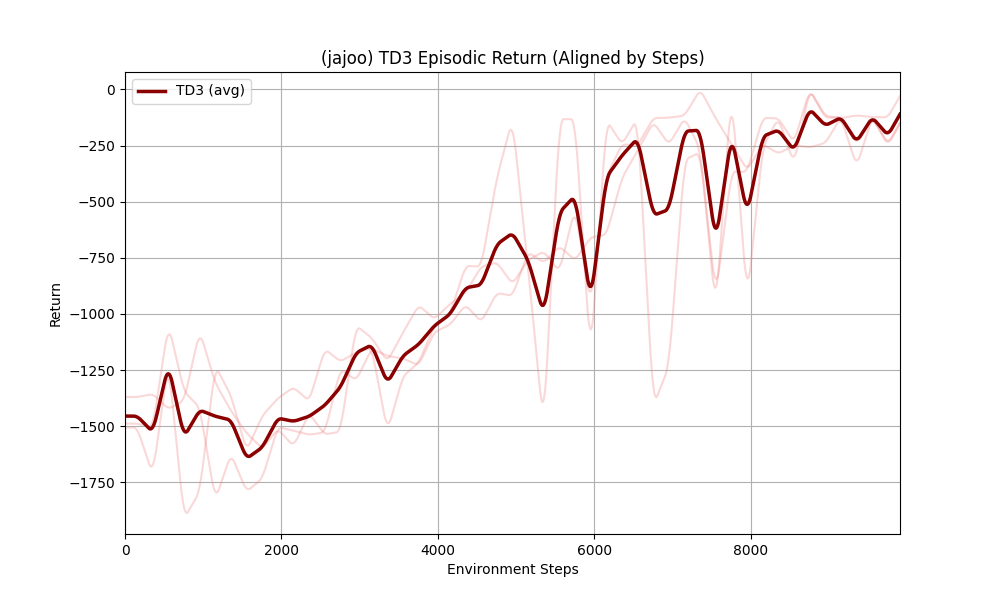
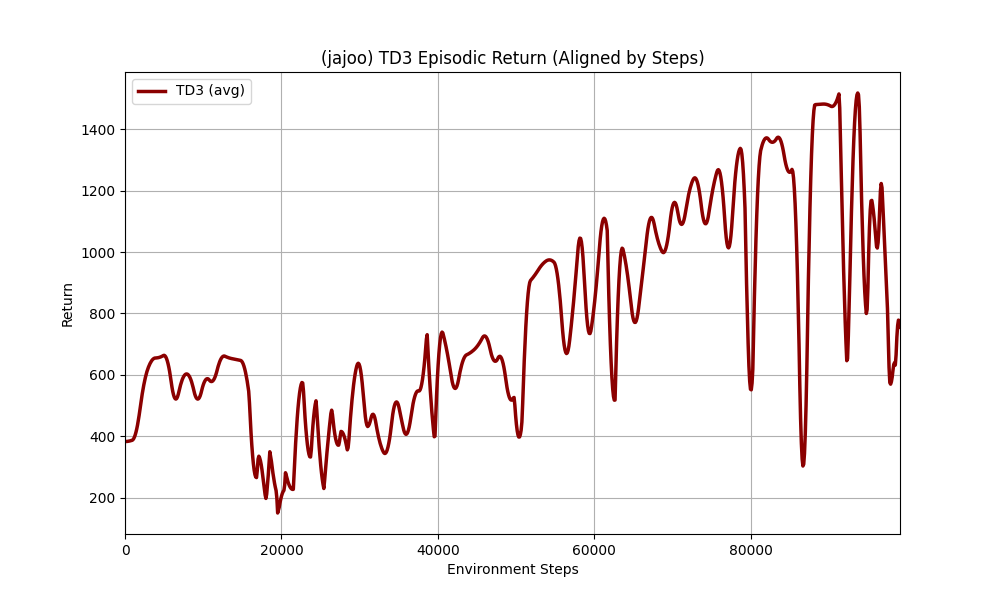
a4 update

diff --git a/a4_jajoo/train_td3_ant.py b/a4_jajoo/train_td3_ant.py
@@ -12,39 +12,87 @@ import argparse
 
 CCID="jajoo"
 
-# Adapted from ChatGPT
-def plot_alg_results(step_returns_list, file, label="Algorithm", ylabel="Return", title="Stepwise Returns"):
+def interpolate_returns(all_returns, all_steps, num_points=1000):
+    interp_returns = []
 
-    # Compute running average
-    running_avg = np.mean(np.array(step_returns_list), axis=0)
+    # Use actual max steps instead of a hardcoded 1M
+    x_max = max([np.sum(steps) for steps in all_steps])
+    x_target = np.linspace(0, x_max, num_points)
 
-    # Create the plot
+    for returns, steps in zip(all_returns, all_steps):
+        x_actual = np.cumsum(steps)
+        y_actual = np.array(returns)
+
+        if x_actual[-1] < x_target[-1]:
+            x_actual = np.append(x_actual, x_target[-1])
+            y_actual = np.append(y_actual, y_actual[-1])
+
+        y_interp = np.interp(x_target, x_actual, y_actual)
+        interp_returns.append(y_interp)
+
+    return x_target, interp_returns
+
+
+
+
+
+# Plot
+def plot_interpolated(interpolated_returns, x_steps, file, label="TD3", ylabel="Return", window=10):
+    array = np.array(interpolated_returns)
+    mean = np.mean(array, axis=0)
+
+    def running_mean(x, N):
+        return np.convolve(x, np.ones(N)/N, mode='valid')
+
+    smoothed_mean = running_mean(mean, window)
+
     plt.figure(figsize=(10, 6))
 
-    # Plot the original data
-    # plt.plot(episode_rewards, marker='o', linestyle='-', color='b', label='Original Data')
+    for run in array:
+        smoothed_run = running_mean(run, window)
+        trimmed_x = x_steps[:len(smoothed_run)]
+        plt.plot(trimmed_x, smoothed_run, color='lightcoral', alpha=0.3)
 
-    # Plot the running average
-    plt.plot(
-        range(0, len(running_avg)),
-        running_avg,
-        color='r',
-        label=label
-    )
+    plt.plot(x_steps[:len(smoothed_mean)], smoothed_mean, color='darkred', label=f"{label} (avg)", linewidth=2.5)
 
-    # Adding labels and title
-    plt.title(f"({CCID}){title}")
-    plt.xlabel("Time Step")
+    plt.title(f"({CCID}) TD3 Episodic Return (Aligned by Steps)")
+    plt.xlabel("Environment Steps")
     plt.ylabel(ylabel)
-
-    # Add legend
     plt.legend()
-
-    # Add grid
     plt.grid(True)
-
-    # Display the plot
+    plt.xlim([0, x_steps[len(smoothed_mean)-1]])  # ✅ Fixes axis issue
     plt.savefig(file)
+
+
+
+# Adapted from ChatGPT
+def plot_alg_results(episode_returns_list, file, label="Algorithm", ylabel="Return", title="Episodic Returns", window=10):
+    array = np.array(episode_returns_list)
+    mean = np.mean(array, axis=0)
+
+    # Compute running mean
+    def running_mean(x, N):
+        return np.convolve(x, np.ones(N)/N, mode='valid')
+
+    smoothed_mean = running_mean(mean, window)
+
+    plt.figure(figsize=(10, 6))
+
+    # Plot each run (optional)
+    for run in array:
+        smoothed_run = running_mean(run, window)
+        plt.plot(smoothed_run, color='lightcoral', alpha=0.3, linewidth=1)
+
+    # Plot smoothed average
+    plt.plot(smoothed_mean, color='darkred', label=f"{label} (avg)", linewidth=2.5)
+
+    plt.title(f"({CCID}){title}")
+    plt.xlabel("Episode")
+    plt.ylabel(ylabel)
+    plt.legend()
+    plt.grid(True)
+    plt.savefig(file)
+
 
 
 def plot_many_algs(lists, labels, colors, file, ylabel="Return", title="Stepwise Returns"):
@@ -86,6 +134,7 @@ def plot_many_algs(lists, labels, colors, file, ylabel="Return", title="Stepwise
 
 if __name__ == '__main__':
 
+    print('Running Ant-v4')
     parser = argparse.ArgumentParser()
     parser.add_argument("--debug", action="store_true", default=False)
     parser.add_argument("--track-q", action="store_true", default=False)
@@ -108,8 +157,8 @@ if __name__ == '__main__':
     batch_size = 256
     buffer_size = 1000000
     # num_training_episodes = 2000
-    # total_training_steps = 1_000_000
-    total_training_steps = 100000
+    # num_training_steps = 1_000_000
+    num_training_steps = 1000000
 
 
     agent_class_to_text = {TD3.TD3: 'TD3'} 
@@ -125,35 +174,48 @@ if __name__ == '__main__':
     # import ipdb; ipdb.set_trace()
 
 
-
     perf_dict = {}
     q_val_dict = {}
+    step_dict = {}  # for tracking steps per episode
     for n_step in n_steps:
         perf_dict[n_step] = {}
         q_val_dict[n_step] = {}
+        step_dict[n_step] = {}
         for agent_class in agent_classes:
             agent_text = agent_class_to_text[agent_class]
             alg_returns = []
             alg_q_values = []
+            alg_steps = []
             for seed in range(num_seeds):
                 
                 num_actions = action_dim
                 buffer = replay_buffer.ReplayBuffer(buffer_size, discount=discount, n_step=n_step)
                 agent = agent_class(state_dim, action_dim, max_action, discount, tau, initial_policy_noise, decay_steps, noise_clip, policy_update_frequency, batch_size, buffer)
                 # step_returns, step_q_values = agent_environment.agent_environment_episode_loop(agent, env, num_training_episodes, args.debug, args.track_q)
-                step_returns, step_q_values = agent_environment.agent_environment_step_loop(agent, env, total_training_steps, args.debug, args.track_q)
-                alg_returns.append(step_returns)
-                alg_q_values.append(step_q_values)
+                episode_returns, episode_q_values, steps_per_episode = agent_environment.agent_environment_step_loop(agent, env, num_training_steps, args.debug, args.track_q)
+                alg_returns.append(episode_returns)
+                alg_q_values.append(episode_q_values)
+                alg_steps.append(steps_per_episode)
                 # import ipdb; ipdb.set_trace()
 
 
             perf_dict[n_step][agent_text] = alg_returns
             q_val_dict[n_step][agent_text] = alg_q_values
+            step_dict[n_step][agent_text] = alg_steps
             # import ipdb; ipdb.set_trace()
             plot_alg_results(perf_dict[n_step][agent_text], f"{agent_text}_{n_step}_step_ant.png", label=agent_text)
             if args.track_q:
                 plot_alg_results(q_val_dict[n_step][agent_text], f"{agent_text}_{n_step}_step_ant_q_vals.png",
                                  label=agent_text, ylabel="Q-values", title="Q-values")
+
+
+        # === After training ===
+    all_returns = perf_dict[1]['TD3']
+    all_steps = step_dict[1]['TD3']  # New: step_dict to store steps
+
+    x_common, interpolated = interpolate_returns(all_returns, all_steps)
+
+    plot_interpolated(interpolated, x_common, "td3_interpolated_1M_steps.png")
 
 
     for n_step in n_steps:

diff --git a/a4_jajoo/TD3.py b/a4_jajoo/TD3.py
@@ -55,7 +55,7 @@ class TD3(object):
     
     def compute_targets(self, batched_rewards, batched_actions, batched_next_states, batched_discounts, batched_terminated):
         with torch.no_grad():
-            noise = self.current_noise # (torch.randn_like(batched_actions) * self.current_noise).clamp(-self.noise_clip, self.noise_clip)
+            noise =  (torch.randn_like(batched_actions) * self.current_noise).clamp(-self.noise_clip, self.noise_clip)
             next_action = (self.actor_target(batched_next_states) + noise).clamp(-self.max_action, self.max_action)
 
             target_Q1, target_Q2 = self.critic_target(batched_next_states, next_action)
@@ -97,12 +97,12 @@ class TD3(object):
     
     def process_transition(self, state, action, reward, next_state, terminated, truncated):
         self.steps += 1
-        state = torch.FloatTensor(state.reshape(1, -1)).to(self.device)
-        action = torch.FloatTensor(action.reshape(1, -1)).to(self.device)
-        next_state = torch.FloatTensor(next_state.reshape(1, -1)).to(self.device)
-        reward = torch.FloatTensor([reward]).to(self.device)
-        terminated = torch.FloatTensor([terminated]).to(self.device)
-        truncated = torch.FloatTensor([truncated]).to(self.device)
+        state = torch.FloatTensor(state.reshape(1, -1))
+        action = torch.FloatTensor(action.reshape(1, -1))
+        next_state = torch.FloatTensor(next_state.reshape(1, -1))
+        reward = torch.FloatTensor([reward])
+        terminated = torch.FloatTensor([terminated])
+        truncated = torch.FloatTensor([truncated])
 
         self.replay_buffer.append(state, action, reward, next_state, terminated, truncated)
 
